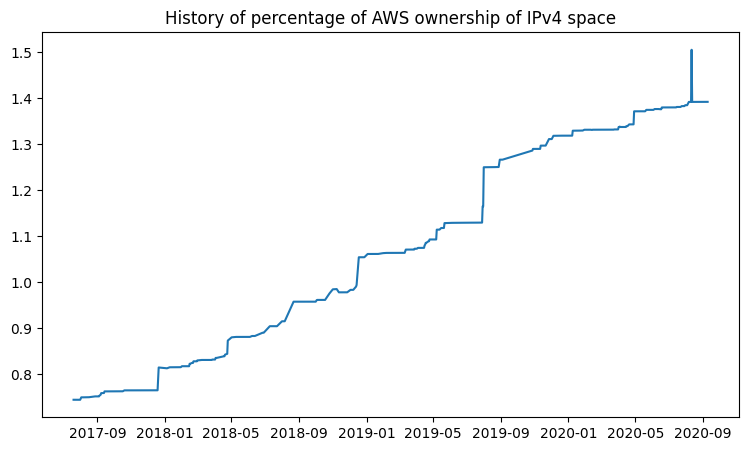
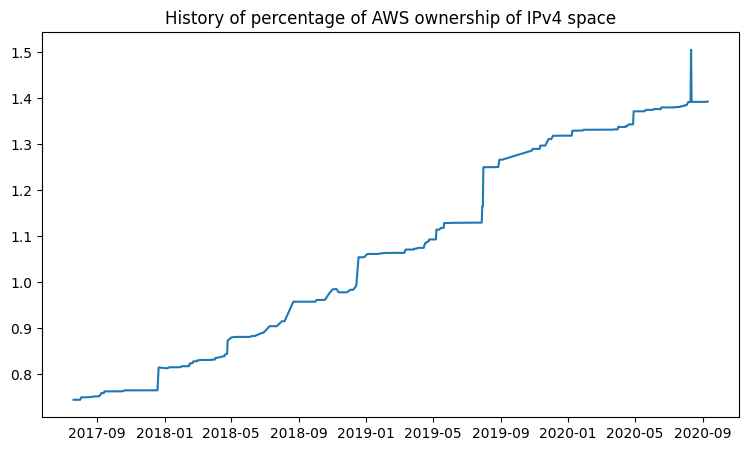
Update data files

Changed region(s): [[0.7063, 0.9313, 0.8905, 0.9933], [0.0921, 0.9313, 0.1842, 0.9933], [0.4606, 0.9313, 0.522, 0.9933]]

diff --git a/README.md b/README.md
@@ -14,6 +14,7 @@ address space AWS is in control of.
 
 | | Percent | IPs | Change | CIDRs |
 | :--- | ---: | ---: | ---: | :--- |
+| 2020-09-10 18:51:15 | 1.39235 | 51548285 | +26112 | +3.5.224.0/19, +3.5.144.0/20, +3.5.64.0/21, ... |
 | 2020-09-09 21:51:16 | 1.39164 | 51522173 | 0 |  |
 | 2020-09-09 18:11:15 | 1.39164 | 51522173 | 0 |  |
 | 2020-09-09 17:11:16 | 1.39164 | 51522173 | 0 |  |
@@ -28,7 +29,6 @@ address space AWS is in control of.
 | 2020-08-27 20:51:15 | 1.39163 | 51521684 | 0 | +15.230.52.0/24, -15.230.51.0/24 |
 | 2020-08-27 19:51:15 | 1.39163 | 51521684 | +256 | +15.230.51.0/24 |
 | 2020-08-27 08:51:15 | 1.39162 | 51521428 | +32 | +15.230.131.48/28, +15.230.131.64/28 |
-| 2020-08-27 07:11:15 | 1.39162 | 51521396 | +32 | +15.230.131.16/28, +15.230.131.32/28 |
 
 
 # 15 largest changes to date:
